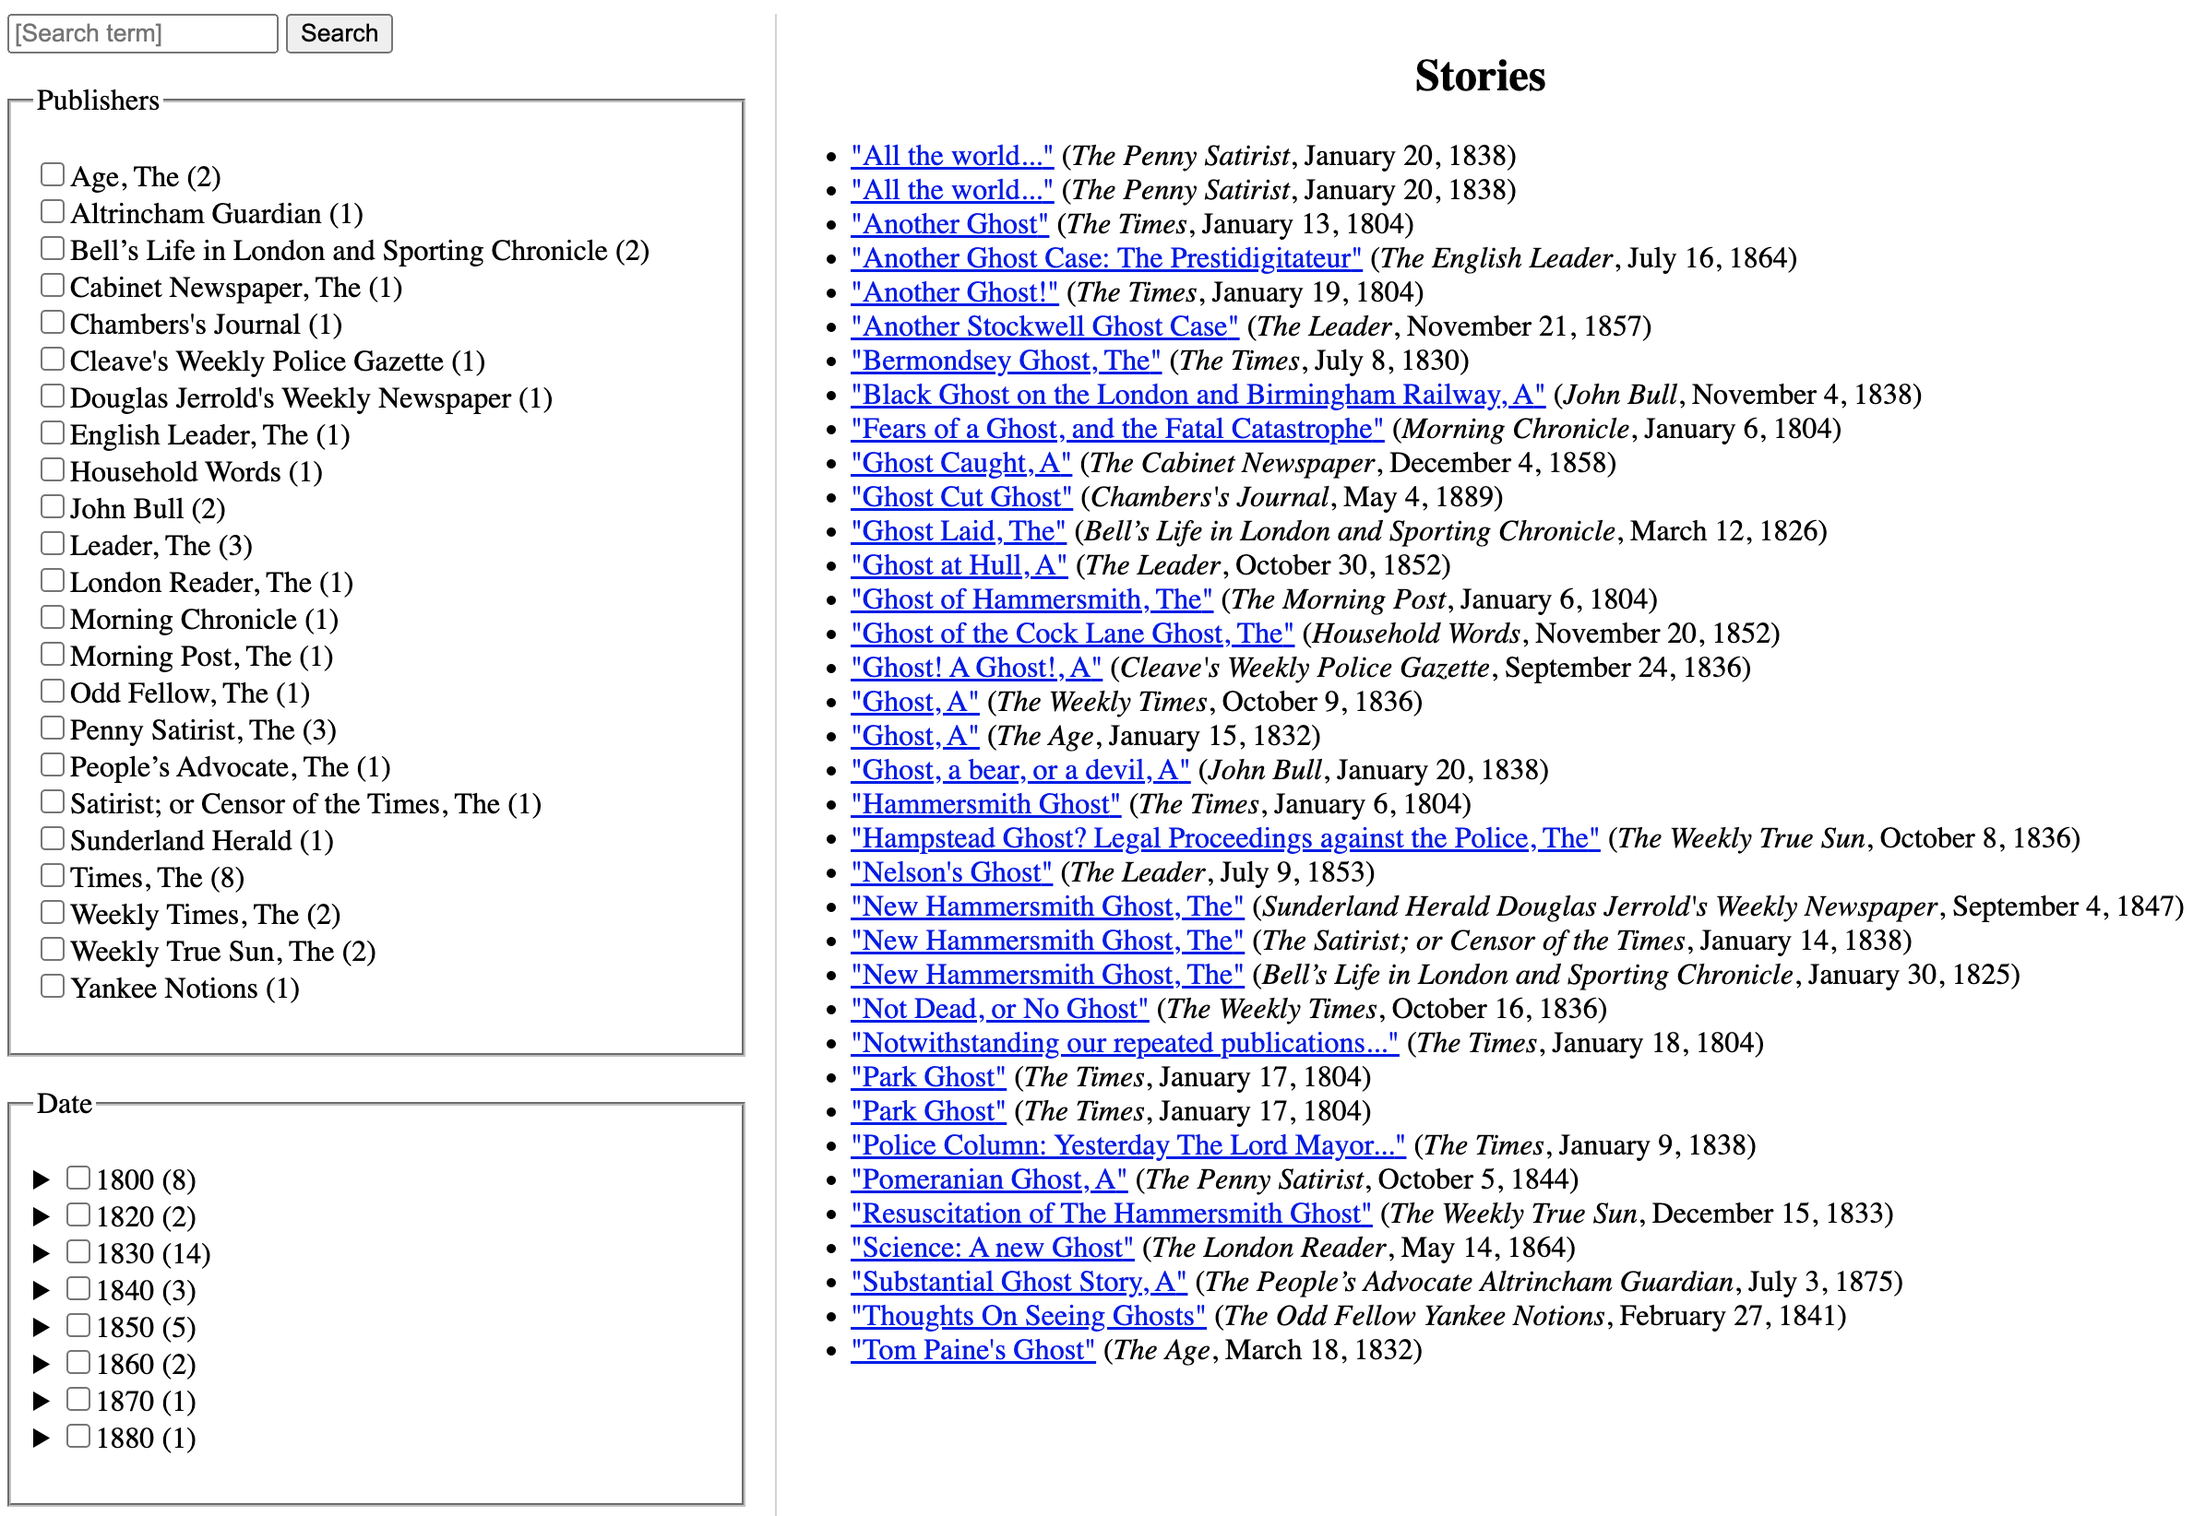
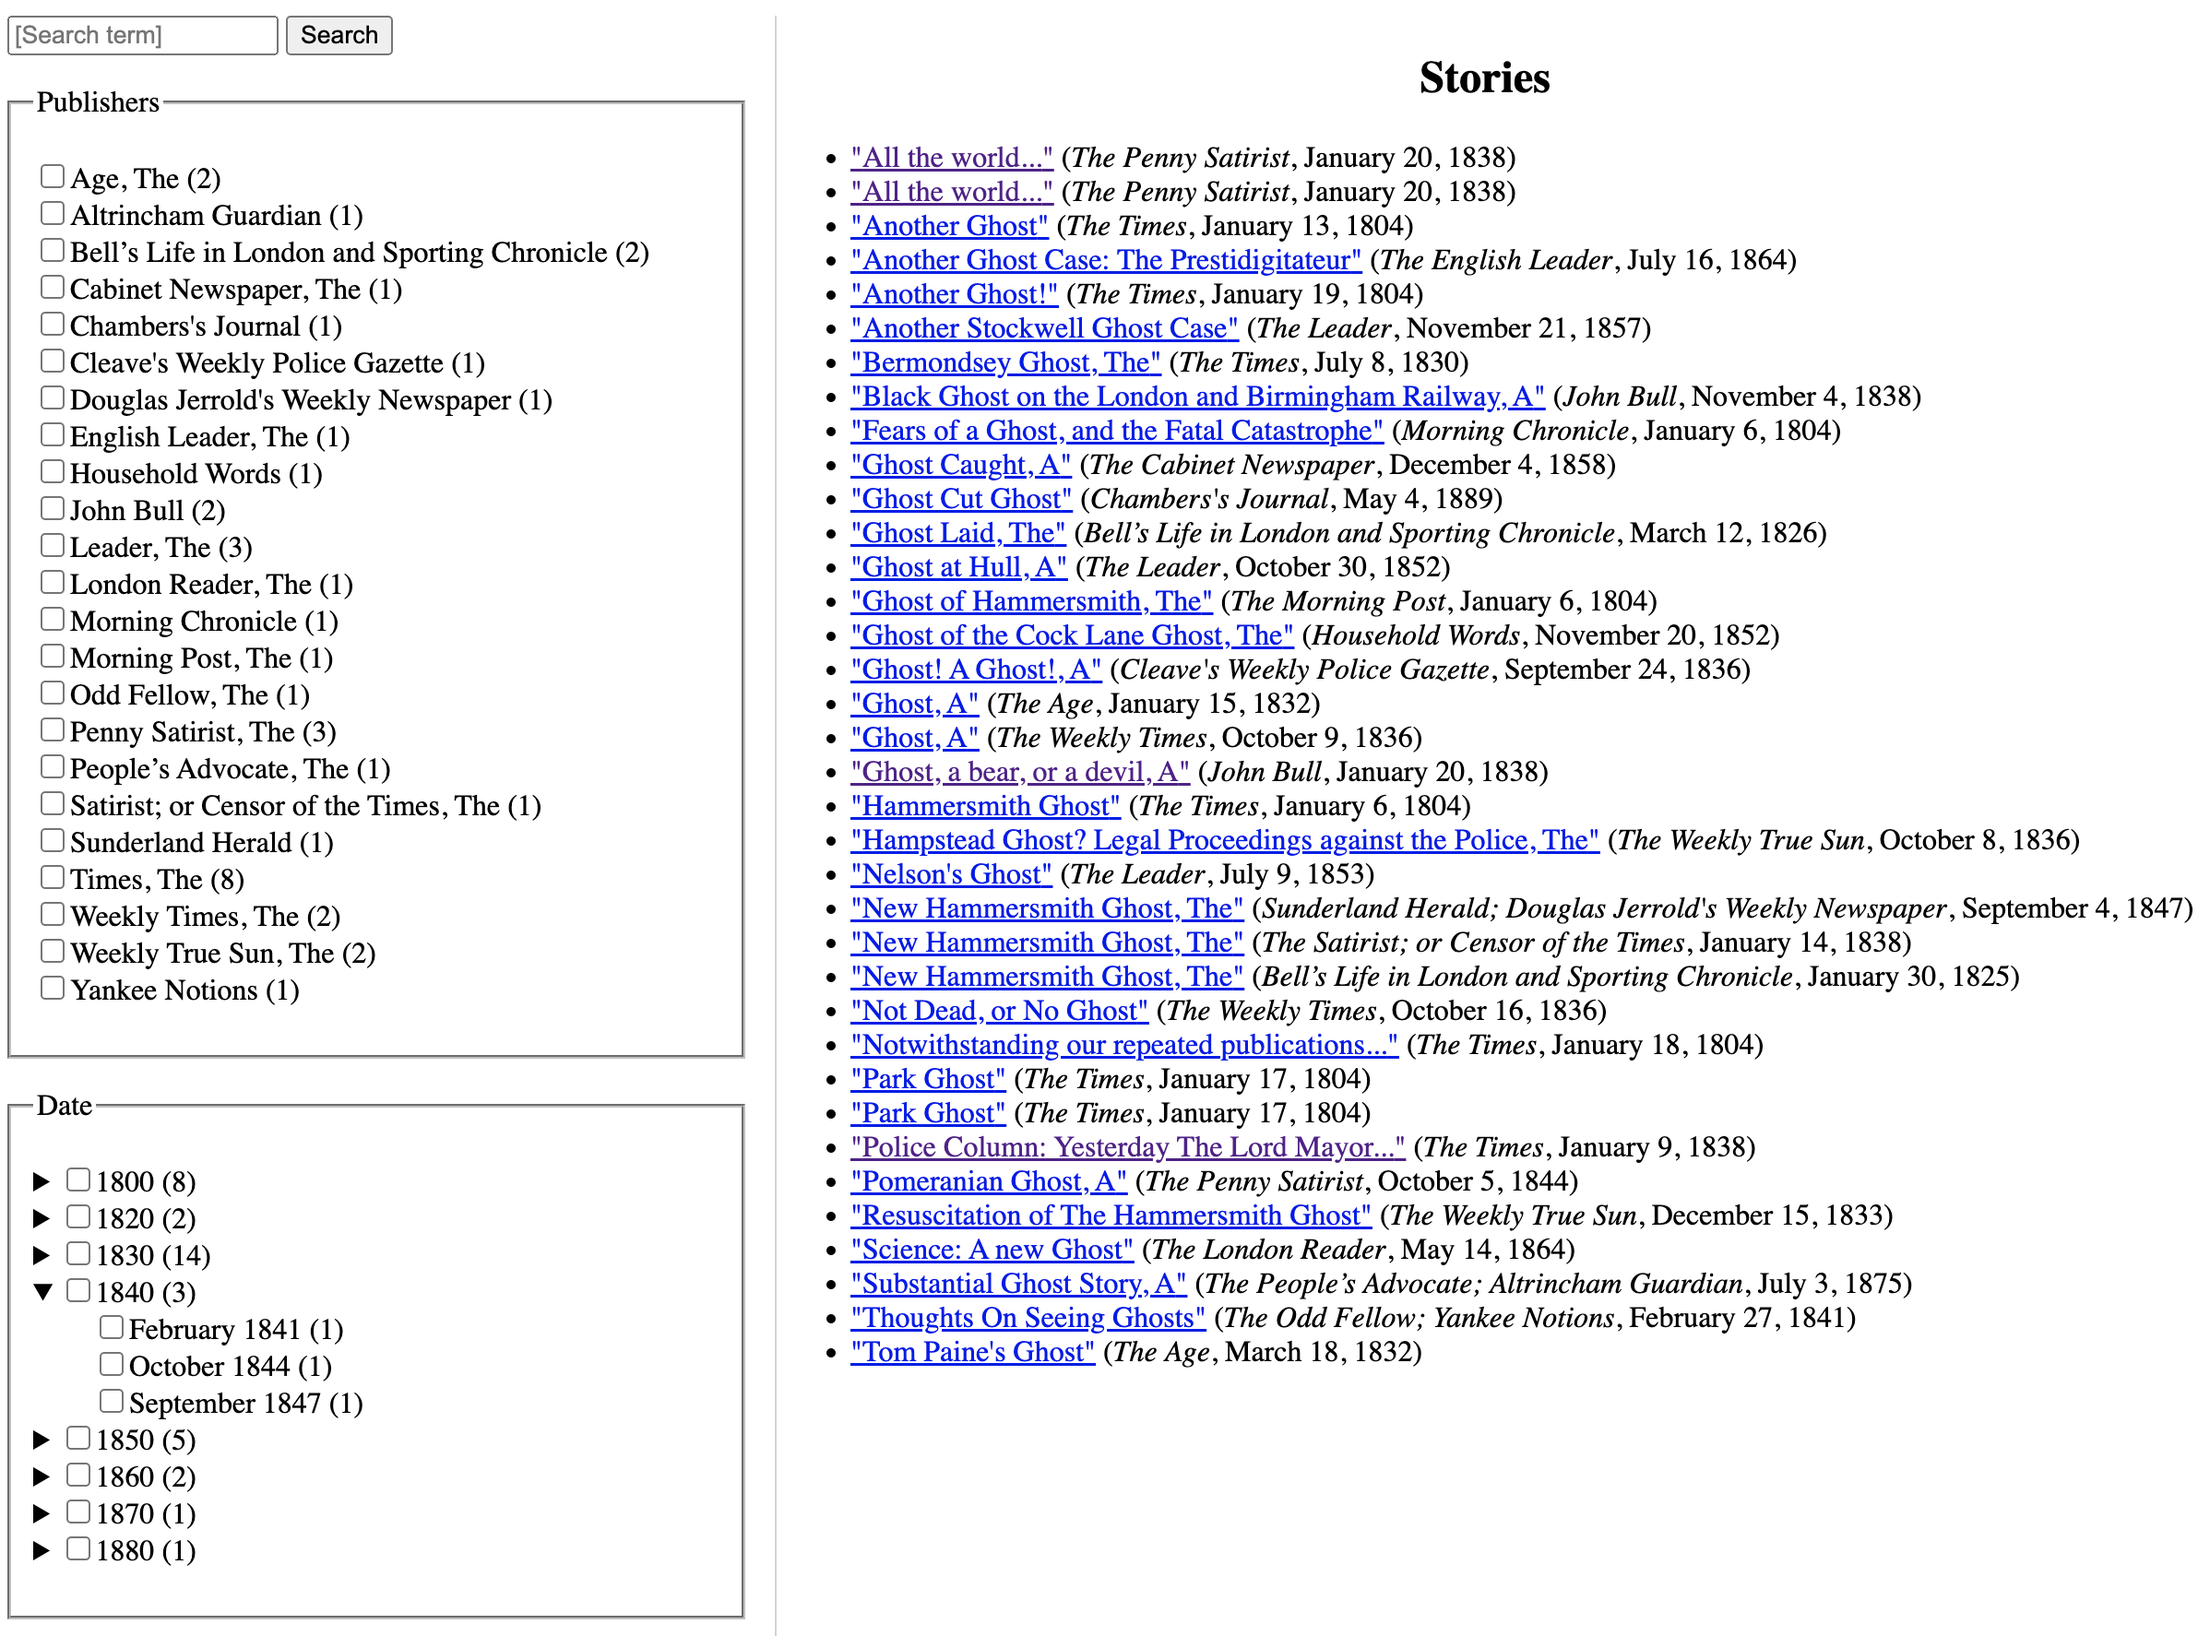
Change first facets screen cap to show expanded decade

diff --git a/pr-app-tutorials/facets-and-fields.md b/pr-app-tutorials/facets-and-fields.md
@@ -23,7 +23,7 @@
 
 *Facets* and *fields* are part of the *full-text indexing* feature of eXist-db. As the name implies, full-text indexing provides a mechanism for retrieving documents according to any of the words they contain, e.g., “Find all documents that contain the word ‘ghost’” (anywhere in the document) or “Find all documents that contain the word ‘ghost’ in the title”, etc.
 
-The official eXist-db documentation for full-text indexing is clear, but when we first looked there to begin to learn about facets and fields we found that portion of the documentation too brief to serve as a full and clear introduction to those features. The purpose of this document is to explain why and how to use facets and fields in an eXist-db app, with examples drawn from our [Ghost Hoax app](https://github.com/Pittsburgh-NEH-Institute/pr-app), which is designed to explore a collection of Victorian-era newspaper articles about ghost hoaxes.
+The description of facets and fields in [official eXist-db documentation for full-text indexing](http://exist-db.org/exist/apps/doc/lucene.xml?field=all&id=D3.15.73#D3.15.73) provides a clear overview of these features, but in some places without as much detail as we would like. The purpose of this document is to explain why and how to use facets and fields in an eXist-db app, with examples drawn from our [Ghost Hoax app](https://github.com/Pittsburgh-NEH-Institute/pr-app), which is designed to explore a collection of Victorian-era newspaper articles about ghost hoaxes.
 
 The difference between facets and fields is described clearly in Alex Kennedy’s [The definitive guide to the difference between filters and facets](https://www.search.io/blog/the-difference-between-filters-and-facets) (text in square brackets is our own):
 
@@ -34,7 +34,7 @@ This tutorial makes the following assumptions:
 1. Readers who are not familiar with eXist-db full-text indexing must first read the documentation at <http://exist-db.org/exist/apps/doc/lucene>. 
 2. Because facets and fields use maps and arrays, which were added to XPath only in version 3.1 (2017), users who are not familiar with those data structures must first read the Saxonica [Maps in XPath](https://www.saxonica.com/html/documentation11/expressions/xpath30maps.html) and [Arrays in XPath](https://www.saxonica.com/html/documentation11/expressions/xpath31arrays.html). More complete documentation is available in the [3.11 Maps and Arrays](https://www.saxonica.com/html/documentation11/expressions/xpath31arrays.html) section of the XPath 3.1 specification.
 
-Both facets and fields can index on computed values, which, for reasons described below, can improve response time during query and retrieval. The computation can use the standard XPath and XQuery function libraries, as well as user-defined functions. Below we describe first facets and then fields, including also information about how to import user-defined functions into an index file so that they can be used during configuration.
+Both facets and fields can index on computed values (that is, values that do not appear literally in the source XML), which, for reasons described below, can improve response time during query and retrieval. The computation can use the standard XPath and XQuery function libraries, as well as user-defined functions. Below we describe first facets and then fields, including also information about how to import user-defined functions into an index file so that they can be used during configuration.
 
 ## 2. Facets
 
